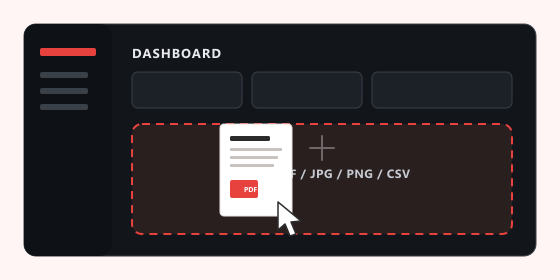
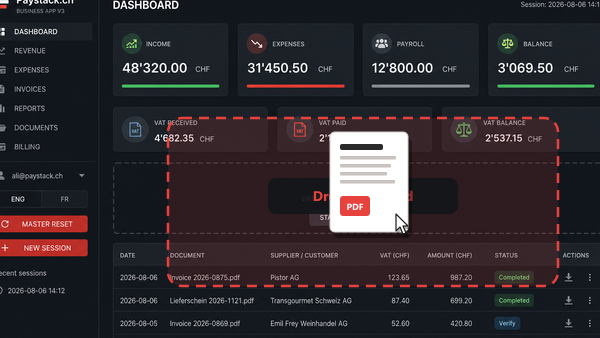
Fix outreach dark mode (black shell + dark heroes) and ship realistic dashboard GIF.
Default the beta invite to pure black with dark campaign heroes so Gmail no longer remaps cream to brown; place a real-dashboard drag-drop GIF between FR and EN.

diff --git a/docs/outreach/paystack-beta-invite.html b/docs/outreach/paystack-beta-invite.html
@@ -1,6 +1,9 @@
 <!--
   Outreach 1 — Subject: Vous avez été choisi
-  Theme: light + dark campaign heroes via prefers-color-scheme (device theme)
+  Theme: DARK-FIRST (black shell + dark heroes by default).
+  Light OS / light mail clients: @media (prefers-color-scheme: light) → cream shell + light heroes.
+  Why dark-first: Gmail dark mode remaps cream (#FFF5F4) to brown and often ignores prefers-color-scheme
+  image swaps — defaulting to dark assets keeps black + dark creatives readable on phones.
   Make.com: From Name "Lucas | Paystack" when possible
   Merge tags (Make.com): {{11.`3`}}
   Rules: docs/OUTREACH_BETA_INVITE_SUPER_PROMPT.md
@@ -10,63 +13,64 @@
 <head>
   <meta charset="utf-8">
   <meta name="viewport" content="width=device-width, initial-scale=1.0">
-  <meta name="color-scheme" content="light dark">
-  <meta name="supported-color-schemes" content="light dark">
+  <meta name="color-scheme" content="dark light">
+  <meta name="supported-color-schemes" content="dark light">
   <title>Vous avez été choisi</title>
   <style type="text/css">
-    :root { color-scheme: light dark; }
-    /* Default = light (most mail clients / white OS theme) */
-    .hero-dark { display: none !important; max-height: 0 !important; overflow: hidden !important; width: 0 !important; height: 0 !important; }
-    @media (prefers-color-scheme: dark) {
-      .hero-light { display: none !important; max-height: 0 !important; overflow: hidden !important; width: 0 !important; height: 0 !important; }
-      .hero-dark { display: block !important; max-height: none !important; overflow: visible !important; width: 100% !important; height: auto !important; }
-      .shell-bg { background-color: #000000 !important; }
-      .body-text { color: #FFFFFF !important; }
-      .meta-text { color: #A3A3A3 !important; }
-      .footer-muted { color: #6B6B6B !important; }
-      .rule-line { border-top-color: #2A2A2A !important; }
+    :root { color-scheme: dark light; }
+    /* Default = DARK (Gmail / phone dark mode safe: pure black + dark heroes) */
+    .hero-light { display: none !important; max-height: 0 !important; overflow: hidden !important; width: 0 !important; height: 0 !important; }
+    .hero-dark { display: block !important; max-height: none !important; overflow: visible !important; width: 100% !important; height: auto !important; }
+    @media (prefers-color-scheme: light) {
+      .hero-dark { display: none !important; max-height: 0 !important; overflow: hidden !important; width: 0 !important; height: 0 !important; }
+      .hero-light { display: block !important; max-height: none !important; overflow: visible !important; width: 100% !important; height: auto !important; }
+      .shell-bg { background-color: #FFF5F4 !important; }
+      .body-text { color: #2B2B2B !important; }
+      .meta-text { color: #6F6669 !important; }
+      .footer-muted { color: #8A8486 !important; }
+      .rule-line { border-top-color: #E8E2E0 !important; }
     }
   </style>
   <!--[if mso]>
   <style>table,td{font-family:Arial,Helvetica,sans-serif !important;}</style>
   <![endif]-->
 </head>
-<body class="shell-bg" style="margin:0;padding:0;background-color:#FFF5F4;" bgcolor="#FFF5F4">
+<body class="shell-bg" style="margin:0;padding:0;background-color:#000000;" bgcolor="#000000">
   <div style="display:none;max-height:0;overflow:hidden;opacity:0;">
     Bêta privée pour les PME genevoises. Près de 5 à 10 000 CHF de frais économisés. Échange sans frais. −25 % à vie.
   </div>
-  <table role="presentation" class="shell-bg" width="100%" cellpadding="0" cellspacing="0" border="0" style="background-color:#FFF5F4;" bgcolor="#FFF5F4">
+  <table role="presentation" class="shell-bg" width="100%" cellpadding="0" cellspacing="0" border="0" style="background-color:#000000;" bgcolor="#000000">
     <tr>
       <td align="center" style="padding:24px 12px;">
-        <table role="presentation" class="shell-bg" width="600" cellpadding="0" cellspacing="0" border="0" style="max-width:600px;width:100%;background-color:#FFF5F4;" bgcolor="#FFF5F4">
+        <table role="presentation" class="shell-bg" width="600" cellpadding="0" cellspacing="0" border="0" style="max-width:600px;width:100%;background-color:#000000;" bgcolor="#000000">
 
-          <!-- HERO: light + dark (device theme) -->
+          <!-- FR HERO: dark default + light for light OS -->
           <tr>
             <td align="center" style="padding:0;">
-              <img class="hero-light" src="https://www.paystack.ch/outreach/paystack-beta-campaign-hero-fr-light.jpg" width="600" alt="Paystack.ch — Une bêta privée pour les PME à Genève. Gagnez du temps. Économisez de l’argent. Sans engagement. −25 % à vie." style="display:block;width:100%;max-width:600px;height:auto;border:0;">
-              <img class="hero-dark" src="https://www.paystack.ch/outreach/paystack-beta-campaign-hero-fr-dark.jpg" width="600" alt="Paystack.ch — Une bêta privée pour les PME à Genève. Gagnez du temps. Économisez de l’argent. Sans engagement. −25 % à vie." style="display:none;width:100%;max-width:600px;height:auto;border:0;">
+              <img class="hero-dark" src="https://www.paystack.ch/outreach/paystack-beta-campaign-hero-fr-dark.jpg" width="600" alt="Paystack.ch — Une bêta privée pour les PME à Genève. Gagnez du temps. Économisez de l’argent. Sans engagement. −25 % à vie." style="display:block;width:100%;max-width:600px;height:auto;border:0;">
+              <img class="hero-light" src="https://www.paystack.ch/outreach/paystack-beta-campaign-hero-fr-light.jpg" width="600" alt="Paystack.ch — Une bêta privée pour les PME à Genève. Gagnez du temps. Économisez de l’argent. Sans engagement. −25 % à vie." style="display:none;width:100%;max-width:600px;height:auto;border:0;">
             </td>
           </tr>
 
           <!-- FRENCH LETTER -->
           <tr>
             <td style="padding:28px 28px 8px;">
-              <p class="body-text" style="margin:0 0 16px;font-family:Arial,Helvetica,sans-serif;font-size:16px;line-height:1.7;font-weight:normal;color:#2B2B2B;">
+              <p class="body-text" style="margin:0 0 16px;font-family:Arial,Helvetica,sans-serif;font-size:16px;line-height:1.7;font-weight:normal;color:#FFFFFF;">
                 Bonjour {{11.`3`}},
               </p>
-              <p class="body-text" style="margin:0 0 16px;font-family:Arial,Helvetica,sans-serif;font-size:16px;line-height:1.7;font-weight:normal;color:#2B2B2B;">
+              <p class="body-text" style="margin:0 0 16px;font-family:Arial,Helvetica,sans-serif;font-size:16px;line-height:1.7;font-weight:normal;color:#FFFFFF;">
                 Paystack a commencé comme un outil privé. Notre fondateur travaille en private equity et l’a conçu pour gérer les impôts et plusieurs affaires à Genève — parce que comptables et financiers prenaient trop de temps et trop d’argent.
               </p>
-              <p class="body-text" style="margin:0 0 16px;font-family:Arial,Helvetica,sans-serif;font-size:16px;line-height:1.7;font-weight:normal;color:#2B2B2B;">
+              <p class="body-text" style="margin:0 0 16px;font-family:Arial,Helvetica,sans-serif;font-size:16px;line-height:1.7;font-weight:normal;color:#FFFFFF;">
                 Les PME perdent encore des heures (et des milliers de francs par an) rien qu’à traiter les documents que l’activité génère. Paystack est là pour régler ce problème : déposer tickets et factures, voir clairement recettes et dépenses, et arrêter de payer un travail que le logiciel peut faire.
               </p>
-              <p class="body-text" style="margin:0 0 16px;font-family:Arial,Helvetica,sans-serif;font-size:16px;line-height:1.7;font-weight:normal;color:#2B2B2B;">
+              <p class="body-text" style="margin:0 0 16px;font-family:Arial,Helvetica,sans-serif;font-size:16px;line-height:1.7;font-weight:normal;color:#FFFFFF;">
                 Pour la plupart des PME, cela représente près de CHF 5’000 à 10’000 de frais par an.
               </p>
-              <p class="body-text" style="margin:0 0 16px;font-family:Arial,Helvetica,sans-serif;font-size:16px;line-height:1.7;font-weight:normal;color:#2B2B2B;">
+              <p class="body-text" style="margin:0 0 16px;font-family:Arial,Helvetica,sans-serif;font-size:16px;line-height:1.7;font-weight:normal;color:#FFFFFF;">
                 Nous sommes en bêta dès maintenant, et nous cherchons avec soin un petit groupe d’exploitants à Genève. Si vous êtes ouvert à un court échange sans frais — et sans frais pour accepter d’être testeur — planifiez un créneau avec le bouton ci-dessous, ou répondez à cet e-mail. Voyez cela comme une occasion gratuite de gagner du temps et de l’argent. Sans engagement.
               </p>
-              <p class="body-text" style="margin:0 0 8px;font-family:Arial,Helvetica,sans-serif;font-size:16px;line-height:1.7;font-weight:normal;color:#2B2B2B;">
+              <p class="body-text" style="margin:0 0 8px;font-family:Arial,Helvetica,sans-serif;font-size:16px;line-height:1.7;font-weight:normal;color:#FFFFFF;">
                 Les 100 premiers testeurs qui souhaitent devenir clients auront −25 % à vie.
               </p>
             </td>
@@ -84,51 +88,58 @@
                   </td>
                 </tr>
               </table>
-              <p class="meta-text" style="margin:16px 0 0;font-family:Arial,Helvetica,sans-serif;font-size:14px;line-height:1.6;font-weight:normal;color:#6F6669;text-align:center;">
+              <p class="meta-text" style="margin:16px 0 0;font-family:Arial,Helvetica,sans-serif;font-size:14px;line-height:1.6;font-weight:normal;color:#A3A3A3;text-align:center;">
                 Ou répondez à cet e-mail · <a href="https://www.paystack.ch" style="color:#E8423F;text-decoration:none;">www.paystack.ch</a>
               </p>
             </td>
           </tr>
 
+          <!-- PRODUCT DEMO GIF (between FR and EN) -->
+          <tr>
+            <td align="center" style="padding:28px 16px 8px;">
+              <img src="https://www.paystack.ch/outreach/upload-demo-v3.gif" width="600" alt="Paystack dashboard — drag a PDF into the drop zone" style="display:block;width:100%;max-width:600px;height:auto;border:0;border-radius:8px;">
+            </td>
+          </tr>
+
           <!-- SEPARATOR -->
           <tr>
-            <td style="padding:36px 28px 8px;">
+            <td style="padding:28px 28px 8px;">
               <table role="presentation" width="100%" cellpadding="0" cellspacing="0" border="0">
                 <tr>
-                  <td class="rule-line" style="border-top:1px solid #E8E2E0;font-size:0;line-height:0;">&nbsp;</td>
+                  <td class="rule-line" style="border-top:1px solid #2A2A2A;font-size:0;line-height:0;">&nbsp;</td>
                 </tr>
               </table>
               <p style="margin:18px 0 0;font-family:Arial,Helvetica,sans-serif;font-size:14px;line-height:1.6;font-weight:normal;color:#E8423F;text-align:center;">English</p>
             </td>
           </tr>
 
-          <!-- ENGLISH HERO: light + dark -->
+          <!-- EN HERO: dark default + light for light OS -->
           <tr>
             <td align="center" style="padding:16px 0 0;">
-              <img class="hero-light" src="https://www.paystack.ch/outreach/paystack-beta-campaign-hero-en-light.jpg" width="600" alt="Paystack.ch — A private beta for SMEs in Geneva. Save time. Save money. No commitment. 25% off for life." style="display:block;width:100%;max-width:600px;height:auto;border:0;">
-              <img class="hero-dark" src="https://www.paystack.ch/outreach/paystack-beta-campaign-hero-en-dark.jpg" width="600" alt="Paystack.ch — A private beta for SMEs in Geneva. Save time. Save money. No commitment. 25% off for life." style="display:none;width:100%;max-width:600px;height:auto;border:0;">
+              <img class="hero-dark" src="https://www.paystack.ch/outreach/paystack-beta-campaign-hero-en-dark.jpg" width="600" alt="Paystack.ch — A private beta for SMEs in Geneva. Save time. Save money. No commitment. 25% off for life." style="display:block;width:100%;max-width:600px;height:auto;border:0;">
+              <img class="hero-light" src="https://www.paystack.ch/outreach/paystack-beta-campaign-hero-en-light.jpg" width="600" alt="Paystack.ch — A private beta for SMEs in Geneva. Save time. Save money. No commitment. 25% off for life." style="display:none;width:100%;max-width:600px;height:auto;border:0;">
             </td>
           </tr>
 
           <!-- ENGLISH LETTER -->
           <tr>
             <td style="padding:28px 28px 8px;">
-              <p class="body-text" style="margin:0 0 16px;font-family:Arial,Helvetica,sans-serif;font-size:16px;line-height:1.7;font-weight:normal;color:#2B2B2B;">
+              <p class="body-text" style="margin:0 0 16px;font-family:Arial,Helvetica,sans-serif;font-size:16px;line-height:1.7;font-weight:normal;color:#FFFFFF;">
                 Hi {{11.`3`}},
               </p>
-              <p class="body-text" style="margin:0 0 16px;font-family:Arial,Helvetica,sans-serif;font-size:16px;line-height:1.7;font-weight:normal;color:#2B2B2B;">
+              <p class="body-text" style="margin:0 0 16px;font-family:Arial,Helvetica,sans-serif;font-size:16px;line-height:1.7;font-weight:normal;color:#FFFFFF;">
                 Paystack started as a private system. Our founder works in private equity and built it to manage taxes and several businesses across Geneva — because accountants and financiers were taking too much time and too much money.
               </p>
-              <p class="body-text" style="margin:0 0 16px;font-family:Arial,Helvetica,sans-serif;font-size:16px;line-height:1.7;font-weight:normal;color:#2B2B2B;">
+              <p class="body-text" style="margin:0 0 16px;font-family:Arial,Helvetica,sans-serif;font-size:16px;line-height:1.7;font-weight:normal;color:#FFFFFF;">
                 SMEs still lose hours (and thousands of francs a year) just processing the documents a business generates. Paystack is built to kill that problem: upload receipts and invoices, get a clear picture of revenue and expenses, and stop paying for work that software can do.
               </p>
-              <p class="body-text" style="margin:0 0 16px;font-family:Arial,Helvetica,sans-serif;font-size:16px;line-height:1.7;font-weight:normal;color:#2B2B2B;">
+              <p class="body-text" style="margin:0 0 16px;font-family:Arial,Helvetica,sans-serif;font-size:16px;line-height:1.7;font-weight:normal;color:#FFFFFF;">
                 For most SMEs, that is almost CHF 5,000 to 10,000 of expense a year.
               </p>
-              <p class="body-text" style="margin:0 0 16px;font-family:Arial,Helvetica,sans-serif;font-size:16px;line-height:1.7;font-weight:normal;color:#2B2B2B;">
+              <p class="body-text" style="margin:0 0 16px;font-family:Arial,Helvetica,sans-serif;font-size:16px;line-height:1.7;font-weight:normal;color:#FFFFFF;">
                 We are beta live right now, selectively looking for a small group of Geneva operators to beta-test with us. If you are open to a short, zero-cost conversation — and zero cost to accept our beta tester offer — please schedule a time with the button below, or reply to this email. See this as a free opportunity to save time and money. No commitment.
               </p>
-              <p class="body-text" style="margin:0 0 8px;font-family:Arial,Helvetica,sans-serif;font-size:16px;line-height:1.7;font-weight:normal;color:#2B2B2B;">
+              <p class="body-text" style="margin:0 0 8px;font-family:Arial,Helvetica,sans-serif;font-size:16px;line-height:1.7;font-weight:normal;color:#FFFFFF;">
                 The first 100 beta testers who wish to become clients will get 25% off for life.
               </p>
             </td>
@@ -146,7 +157,7 @@
                   </td>
                 </tr>
               </table>
-              <p class="meta-text" style="margin:16px 0 0;font-family:Arial,Helvetica,sans-serif;font-size:14px;line-height:1.6;font-weight:normal;color:#6F6669;text-align:center;">
+              <p class="meta-text" style="margin:16px 0 0;font-family:Arial,Helvetica,sans-serif;font-size:14px;line-height:1.6;font-weight:normal;color:#A3A3A3;text-align:center;">
                 Or reply to this email · <a href="https://www.paystack.ch" style="color:#E8423F;text-decoration:none;">www.paystack.ch</a>
               </p>
             </td>
@@ -155,10 +166,10 @@
           <!-- FOOTER -->
           <tr>
             <td align="center" style="padding:36px 28px 40px;">
-              <p class="meta-text" style="margin:0;font-family:Arial,Helvetica,sans-serif;font-size:14px;line-height:1.6;font-weight:normal;color:#6F6669;">
+              <p class="meta-text" style="margin:0;font-family:Arial,Helvetica,sans-serif;font-size:14px;line-height:1.6;font-weight:normal;color:#A3A3A3;">
                 Paystack.ch — vos finances automatisées
               </p>
-              <p class="footer-muted" style="margin:12px 0 0;font-family:Arial,Helvetica,sans-serif;font-size:14px;line-height:1.6;font-weight:normal;color:#8A8486;">
+              <p class="footer-muted" style="margin:12px 0 0;font-family:Arial,Helvetica,sans-serif;font-size:14px;line-height:1.6;font-weight:normal;color:#6B6B6B;">
                 Geneva, Switzerland · <a href="mailto:lucas@paystack.ch" style="color:#E8423F;text-decoration:none;">lucas@paystack.ch</a>
               </p>
             </td>

diff --git a/shared/outreachMail.ts b/shared/outreachMail.ts
@@ -7,8 +7,8 @@ export const OUTREACH_MAX_RECIPIENTS = 200;
 export const OUTREACH_LOCKUP_URL = "https://www.paystack.ch/brand/paystack-lockup.png";
 
 /** Animated drag-and-drop demo for beta invite emails (GIF; PNG fallback also hosted). */
-export const OUTREACH_UPLOAD_DEMO_GIF_URL = "https://www.paystack.ch/outreach/upload-demo-v2.gif";
-export const OUTREACH_UPLOAD_DEMO_PNG_URL = "https://www.paystack.ch/outreach/upload-demo-v2.png";
+export const OUTREACH_UPLOAD_DEMO_GIF_URL = "https://www.paystack.ch/outreach/upload-demo-v3.gif";
+export const OUTREACH_UPLOAD_DEMO_PNG_URL = "https://www.paystack.ch/outreach/upload-demo-v3.png";
 
 /** Public Google Calendar booking link for beta demos. */
 export const OUTREACH_DEMO_CALENDAR_URL = "https://calendar.app.google/gjusbBhAfBKaEh1J6";

diff --git a/docs/OUTREACH_BETA_INVITE_SUPER_PROMPT.md b/docs/OUTREACH_BETA_INVITE_SUPER_PROMPT.md
@@ -1,6 +1,6 @@
 # Outreach email — beta invite super prompt
 
-Use this when updating **Geneva SME cold outreach** (Outreach 1 / `beta-invite`): Make.com HTML must match the campaign creative and **follow the device light/dark theme**.
+Use this when updating **Geneva SME cold outreach** (Outreach 1 / `beta-invite`): Make.com HTML must match the campaign creative and stay readable in **device dark mode** (especially Gmail on phones).
 
 ## Source of truth
 
@@ -8,56 +8,68 @@ Use this when updating **Geneva SME cold outreach** (Outreach 1 / `beta-invite`)
 |-------|------------|
 | Letter HTML | `docs/outreach/paystack-beta-invite.html` |
 | Make.com paste | `C:\Users\attia\Downloads\paystack-beta-invite-campaign.html` (refresh after each edit) |
-| Hero **light** FR | `…/paystack-beta-campaign-hero-fr-light.jpg` |
-| Hero **dark** FR | `…/paystack-beta-campaign-hero-fr-dark.jpg` |
-| Hero **light** EN | `…/paystack-beta-campaign-hero-en-light.jpg` |
-| Hero **dark** EN | `…/paystack-beta-campaign-hero-en-dark.jpg` |
+| Hero **dark** FR (default) | `…/outreach/paystack-beta-campaign-hero-fr-dark.jpg` |
+| Hero **light** FR | `…/outreach/paystack-beta-campaign-hero-fr-light.jpg` |
+| Hero **dark** EN (default) | `…/outreach/paystack-beta-campaign-hero-en-dark.jpg` |
+| Hero **light** EN | `…/outreach/paystack-beta-campaign-hero-en-light.jpg` |
+| Product demo GIF | `…/outreach/upload-demo-v3.gif` (PNG: `upload-demo-v3.png`) |
+| GIF generator | `node scripts/generate-outreach-upload-demo.mjs` |
 | Calendar CTA | `https://calendar.app.google/gjusbBhAfBKaEh1J6` |
 | From | Prefer `Lucas \| Paystack <lucas@paystack.ch>` |
 
-## Theme rules (mandatory — same idea as the website logo)
+## Theme rules (mandatory — dark-first)
 
-The site swaps brand lockups for light vs dark UI. The campaign email must do the same for the **device / mail client color scheme** so nothing vanishes and both themes stay readable.
+Gmail dark mode remaps light cream shells (`#FFF5F4`) to **brown** and often **ignores** `prefers-color-scheme` image swaps. Shipping light heroes as the default leaves white cards on a brown shell. Fix: **default to pure black + dark heroes**.
 
-1. Set `<meta name="color-scheme" content="light dark">` and `color-scheme: light dark`.
-2. Render **both** heroes in one cell:
-   - `.hero-light` → light JPG (default `display:block`) — cream/white canvas, dark type, red accents
-   - `.hero-dark` → dark JPG (default `display:none`) — black canvas, white type, red accents
-3. `@media (prefers-color-scheme: dark)`: hide light hero, show dark hero; flip shell background and letter colors.
-4. **Default (no media query / Outlook) = light theme** so white-theme phones and laptops always see a clear cream letter + light hero.
-5. Letter copy uses classes `.body-text` / `.meta-text` / `.shell-bg` with inline light colors + dark overrides in the same `<style>` block.
-6. Never ship a single dark-only hero: Gmail/iOS light mode would show black-on-black or washed text.
+1. Set `<meta name="color-scheme" content="dark light">` and `color-scheme: dark light`.
+2. Inline + `bgcolor` shell = `#000000` (never cream as the default).
+3. Render **both** heroes in each hero cell:
+   - `.hero-dark` → dark JPG — **default** `display:block` (black canvas, white type, red accents)
+   - `.hero-light` → light JPG — **default** `display:none`
+4. `@media (prefers-color-scheme: light)`: hide dark hero, show light hero; flip shell to cream `#FFF5F4` and letter text to dark.
+5. Letter copy uses `.body-text` / `.meta-text` / `.shell-bg` with **inline dark colors** (`#FFFFFF` body) + light overrides in the same `<style>` block.
+6. Keep dual heroes (never dark-only forever): light OS clients that honor the media query still get cream + light creatives.
 7. When regenerating the creative, export **both** light and dark JPGs (~80–100KB each). Keep red (`#E8423F`) vivid on both.
 
 ### How to regenerate dual heroes
 
 - Dark master: crop from the approved campaign mock (logo through −25% offer).
-- Light variant: luminance remap from dark (black→near-white, white bars/text→charcoal) while **preserving brand red**. Script pattern lives in prior commits / can be re-run with `sharp` raw pixel pass.
-- After replace: bump filenames or cache-bust query only if CDNs stick; otherwise overwrite `*-light.jpg` / `*-dark.jpg` and hard-refresh before mass send.
+- Light variant: luminance remap from dark (black→near-white, white bars/text→charcoal) while **preserving brand red**.
+- After replace: overwrite `*-light.jpg` / `*-dark.jpg` and hard-refresh before mass send.
+
+### Product demo GIF (between FR and EN)
+
+- Place **after** the French CTA and **before** the “English” separator.
+- Must show the **real Paystack dashboard** (not a flat SVG mock), with a **mouse cursor dragging a PDF** into the drop zone.
+- Host as `upload-demo-v3.gif` (bump version when regenerating so CDNs/clients drop the old loop).
+- Regenerate: `node scripts/generate-outreach-upload-demo.mjs` (composites `tmp-landing-v3/dashboard.png` + cursor/PDF overlays via sharp + ffmpeg).
+- Also refresh `OUTREACH_UPLOAD_DEMO_GIF_URL` / PNG in `shared/outreachMail.ts` when the admin preset should match.
 
 ## Layout rules
 
-1. FR hero image(s) first (chart + benefits + exclusive offer).
-2. HTML French letter below for Make personalization: `Bonjour {{11.`3`}},`.
-3. English separator, then **EN hero** (light/dark pair), then English letter + CTA.
-4. One body font: Arial/Helvetica, **16px**, `font-weight:normal` for letter copy.
-5. Red full-width CTA → calendar URL; secondary « Ou répondez… · www.paystack.ch ».
-6. Footer: `Paystack.ch — vos finances automatisées` + Geneva + `lucas@paystack.ch`.
-7. Subject: `Vous avez été choisi`. Preheader: bêta, 5–10k, sans frais, −25 % à vie.
+1. FR dark/light hero pair first (chart + benefits + exclusive offer).
+2. HTML French letter for Make personalization: `Bonjour {{11.`3`}},`.
+3. FR red CTA → calendar URL.
+4. **Product demo GIF** (dashboard drag-and-drop).
+5. English separator, then **EN** dark/light hero pair, English letter + CTA.
+6. One body font: Arial/Helvetica, **16px**, `font-weight:normal` for letter copy.
+7. Footer: `Paystack.ch — vos finances automatisées` + Geneva + `lucas@paystack.ch`.
+8. Subject: `Vous avez été choisi`. Preheader: bêta, 5–10k, sans frais, −25 % à vie.
 
 ## Make.com
 
 - Merge: `{{11.`3`}}`
 - Re-paste HTML from Downloads after every deploy
 - From name is not HTML — SMTP From name or Google Admin display name
+- After deploy, wait until `https://www.paystack.ch/outreach/upload-demo-v3.gif` and the dark hero JPGs are live before mass send
 
 ## Checklist (theme QA)
 
-- [ ] OS **light**: open HTML / test send — light hero + dark text on cream; all chart labels readable
-- [ ] OS **dark** (Apple Mail / client that honors `prefers-color-scheme`): dark hero + white letter text; red CTA still clear
-- [ ] Clients that ignore CSS still get **light** defaults (nothing invisible)
+- [ ] Phone **dark** (Gmail): shell is **black** (not brown); heroes are **dark** (not white cards); text white; GIF loops between FR and EN
+- [ ] OS **light** (Apple Mail / client that honors `prefers-color-scheme`): cream shell + light heroes + dark letter text
+- [ ] Clients that ignore CSS still get **dark** defaults (black + dark heroes — readable in Gmail dark)
 - [ ] Name merge + calendar CTA work
-- [ ] FR above EN
+- [ ] FR → GIF → EN order
 
 ## Out of scope
 
